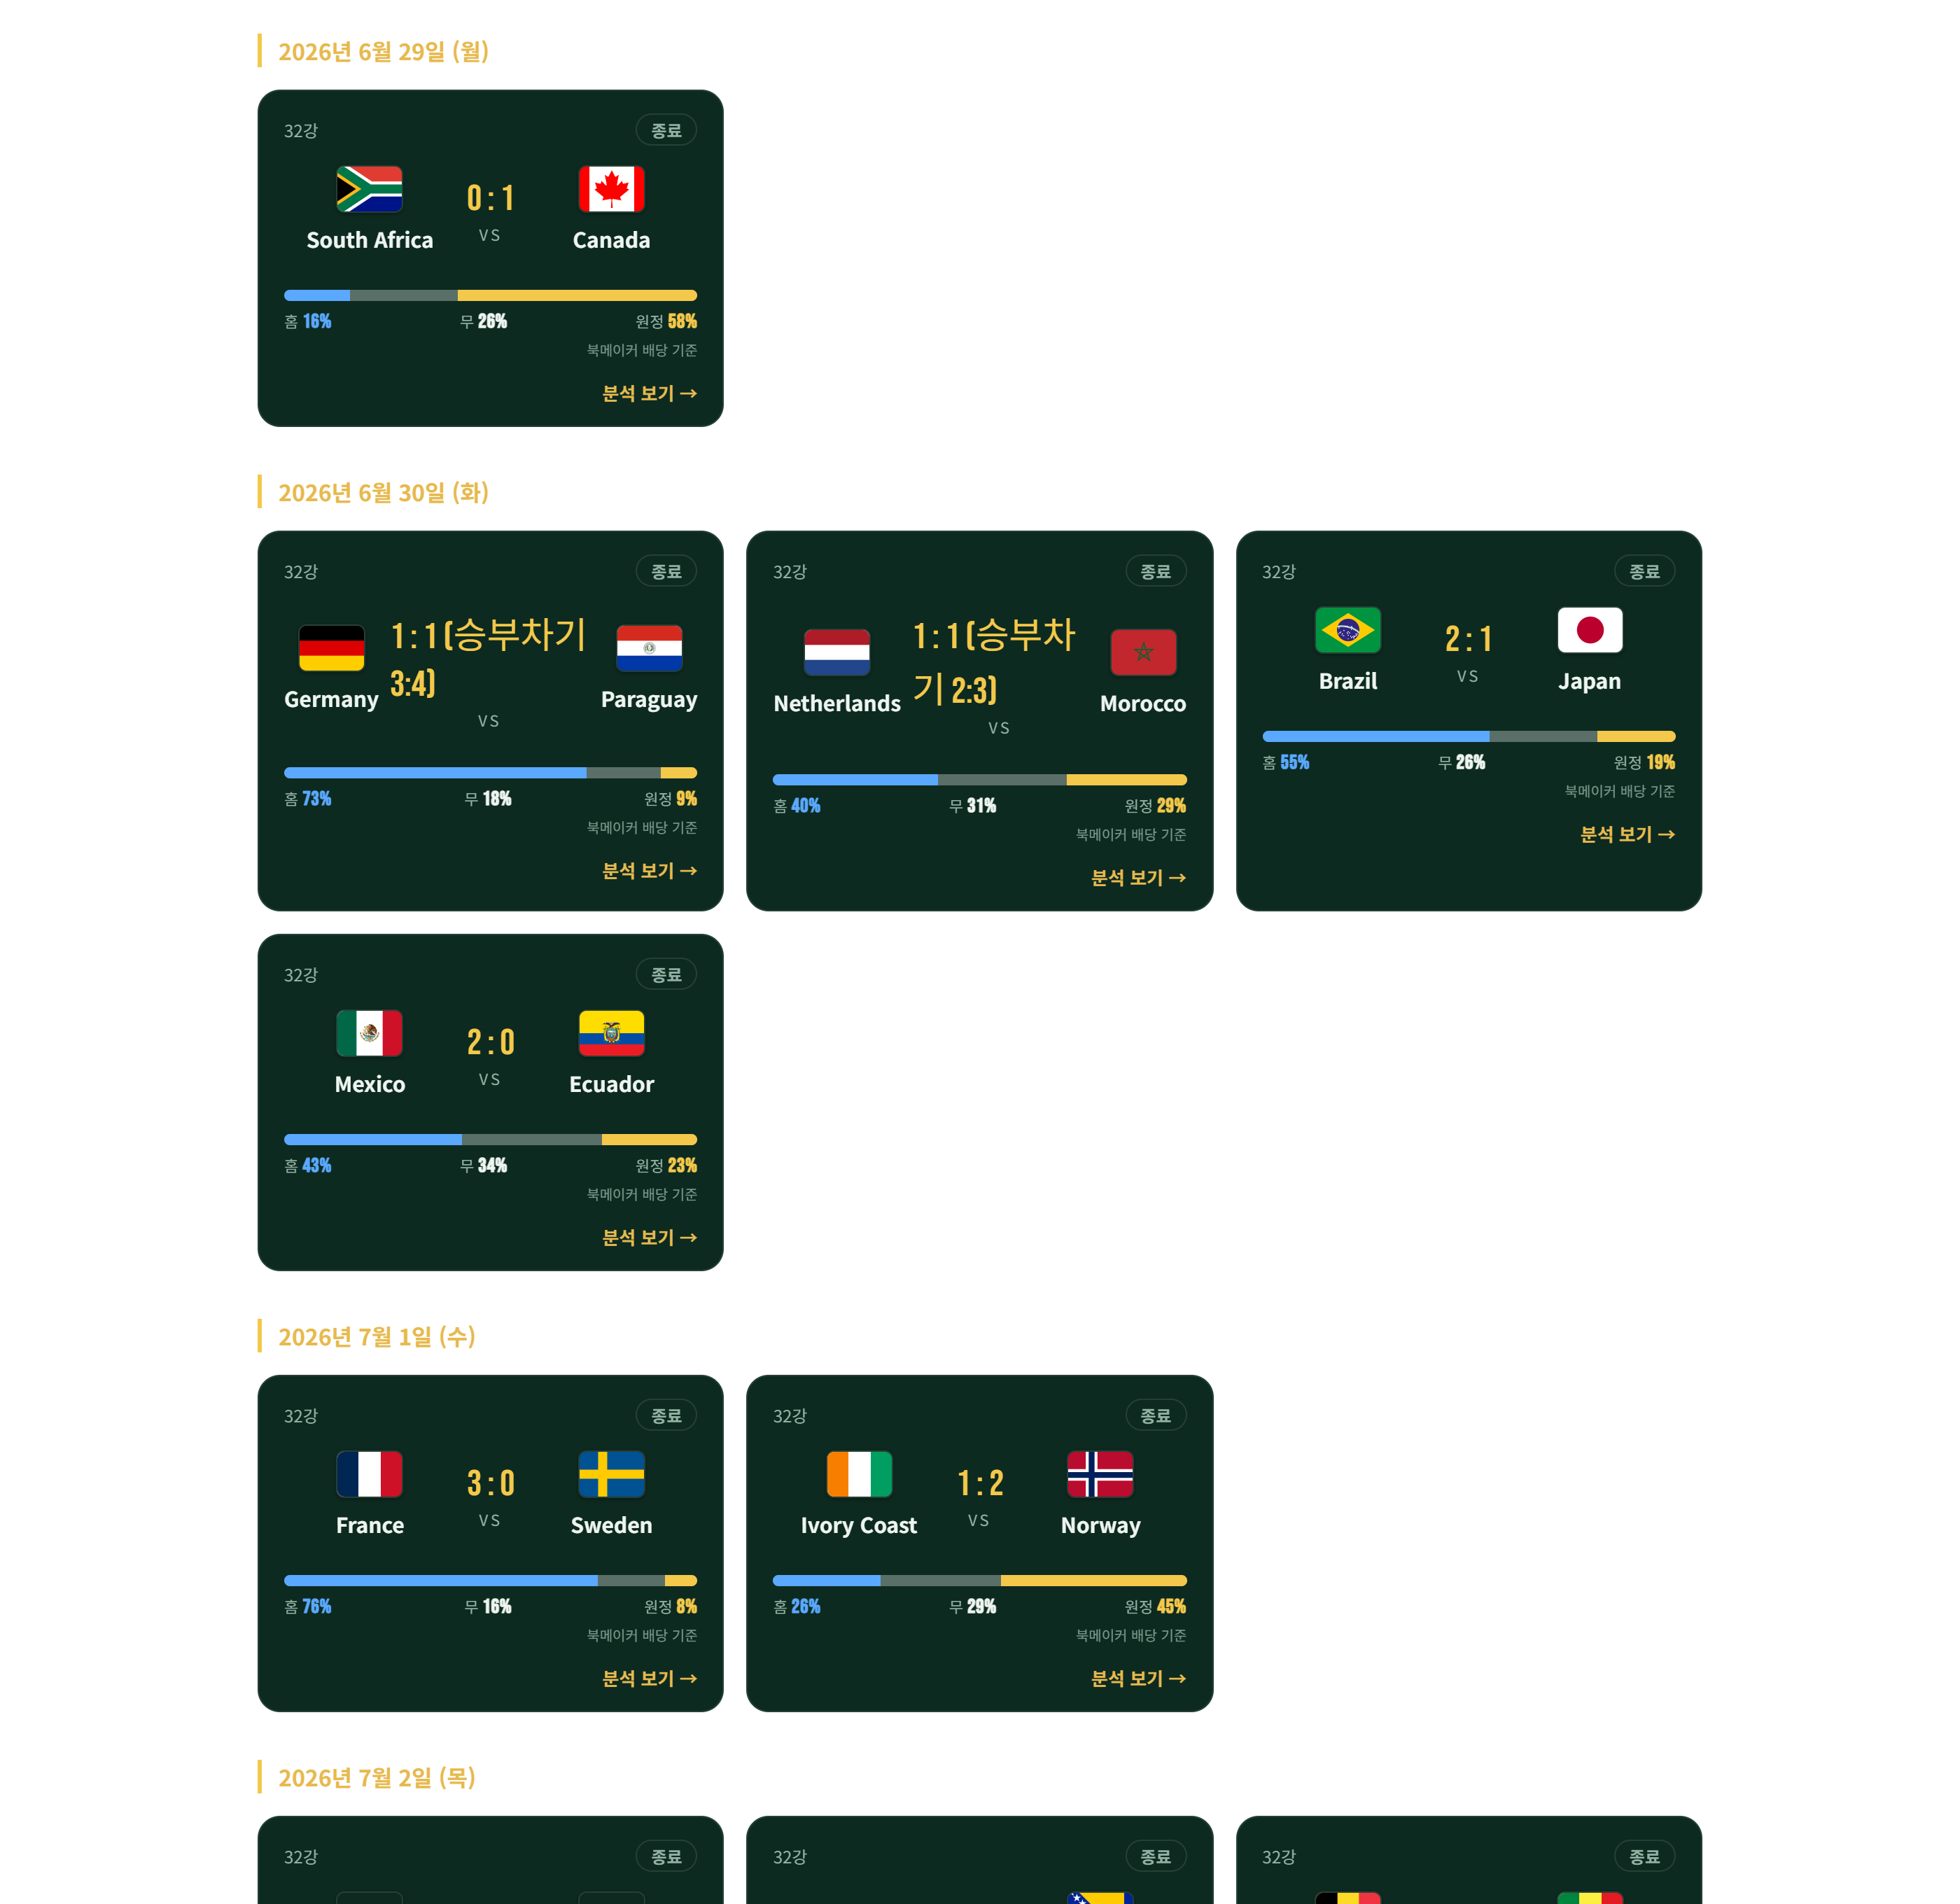
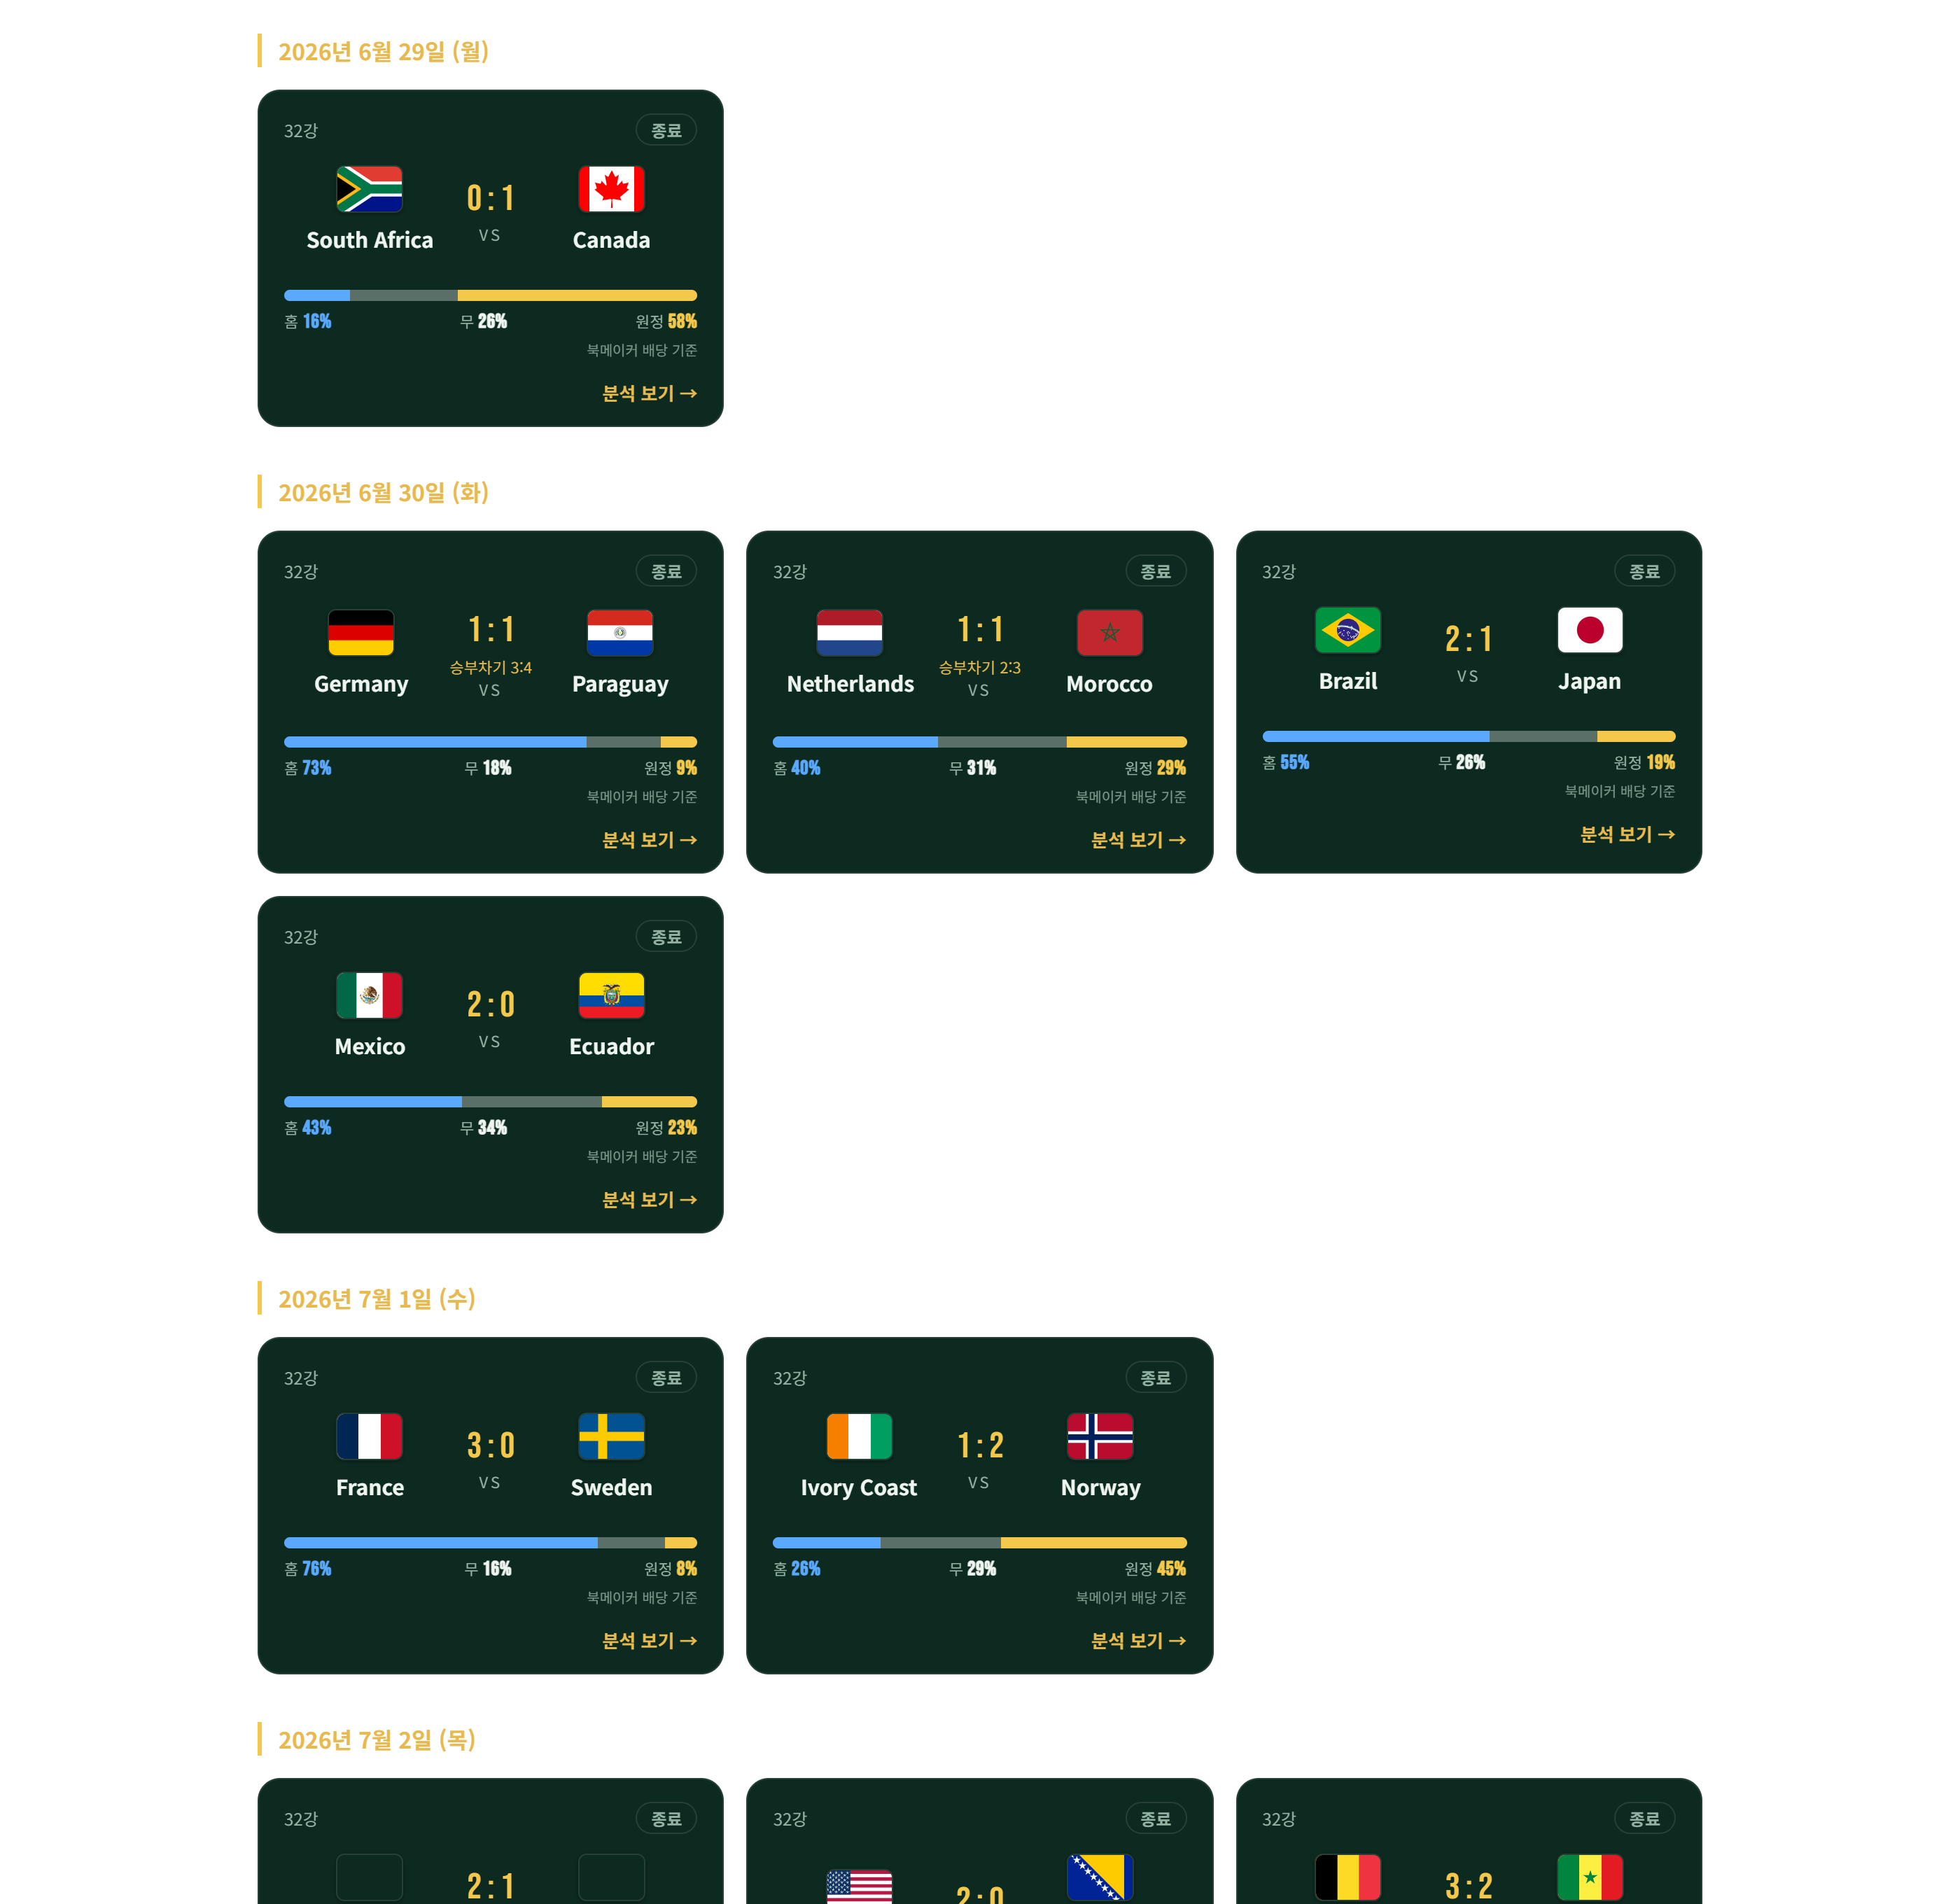
fix: move penalty-shootout label to its own line under the score
The shootout text was appended to the score string ("1 : 1 (승부차기 3:4)"),
which wrapped inside the narrow center column and overlapped the team name on
schedule cards. Split it into a separate penaltyLabel rendered as its own line
under the score on both the cards and the match detail scoreboard.

Changed region(s): [[0.1243, 0.3125, 0.87, 1.0]]

diff --git a/src/main/resources/static/css/styles.css b/src/main/resources/static/css/styles.css
@@ -149,6 +149,7 @@ a { color: inherit; text-decoration: none; }
 
 .center { display: flex; flex-direction: column; align-items: center; }
 .score { font-family: 'Bebas Neue', sans-serif; font-size: 26px; color: var(--gold); }
+.pens { font-size: 11px; color: var(--gold-soft); white-space: nowrap; margin-top: 1px; }
 .kickoff { font-family: 'Bebas Neue', sans-serif; font-size: 22px; }
 .vs { font-size: 11px; color: var(--muted); letter-spacing: 2px; }
 
@@ -206,6 +207,7 @@ a { color: inherit; text-decoration: none; }
 .sb-name { font-weight: 900; font-size: 20px; text-align: center; }
 .sb-center { display: flex; flex-direction: column; align-items: center; gap: 6px; }
 .sb-score { font-family: 'Bebas Neue', sans-serif; font-size: 48px; color: var(--gold); line-height: 1; }
+.sb-pens { font-size: 13px; color: var(--gold-soft); white-space: nowrap; }
 .sb-vs { font-family: 'Bebas Neue', sans-serif; font-size: 34px; color: var(--muted); }
 .sb-datetime { font-size: 12px; color: var(--muted); }
 

diff --git a/src/main/resources/templates/index.html b/src/main/resources/templates/index.html
@@ -40,6 +40,7 @@
                     </div>
                     <div class="center">
                         <span th:if="${m.scoreLabel != null}" class="score" th:text="${m.scoreLabel}">0 : 0</span>
+                        <span th:if="${m.penaltyLabel != null}" class="pens" th:text="${m.penaltyLabel}">승부차기 3:4</span>
                         <span th:if="${m.scoreLabel == null}" class="kickoff" th:text="${m.timeLabel}">21:00</span>
                         <span class="vs">VS</span>
                     </div>

diff --git a/src/main/resources/templates/match.html b/src/main/resources/templates/match.html
@@ -24,6 +24,7 @@
             </div>
             <div class="sb-center">
                 <span th:if="${match.scoreLabel != null}" class="sb-score" th:text="${match.scoreLabel}">0 : 0</span>
+                <span th:if="${match.penaltyLabel != null}" class="sb-pens" th:text="${match.penaltyLabel}">승부차기 3:4</span>
                 <span th:if="${match.scoreLabel == null}" class="sb-vs">VS</span>
                 <span class="sb-datetime" th:text="${match.dateLabel + ' ' + match.timeLabel}">날짜 시간</span>
             </div>

diff --git a/src/main/java/sung/worldcupanalysis/service/MatchService.java b/src/main/java/sung/worldcupanalysis/service/MatchService.java
@@ -90,6 +90,7 @@ public class MatchService {
                 dateLabel,
                 local.format(TIME_FMT),
                 scoreLabel(m),
+                penaltyLabel(m),
                 hasOdds(m),
                 oddsHome(m),
                 oddsDraw(m),
@@ -146,12 +147,19 @@ public class MatchService {
         if (home == null || away == null) {
             return null;
         }
-        String label = home + " : " + away;
-        var pens = m.score().penalties();
-        if (pens != null && pens.home() != null && pens.away() != null) {
-            label += " (승부차기 " + pens.home() + ":" + pens.away() + ")";
+        return home + " : " + away;
+    }
+
+    /** Penalty-shootout line shown under the score, e.g. "승부차기 3:4"; null if none. */
+    private String penaltyLabel(MatchDto m) {
+        if (m.score() == null) {
+            return null;
         }
-        return label;
+        var pens = m.score().penalties();
+        if (pens == null || pens.home() == null || pens.away() == null) {
+            return null;
+        }
+        return "승부차기 " + pens.home() + ":" + pens.away();
     }
 
     private String stageLabel(String stage) {

diff --git a/src/main/java/sung/worldcupanalysis/model/MatchView.java b/src/main/java/sung/worldcupanalysis/model/MatchView.java
@@ -20,6 +20,7 @@ public record MatchView(
         String dateLabel,
         String timeLabel,
         String scoreLabel,
+        String penaltyLabel,
         boolean hasOdds,
         Integer oddsHome,
         Integer oddsDraw,